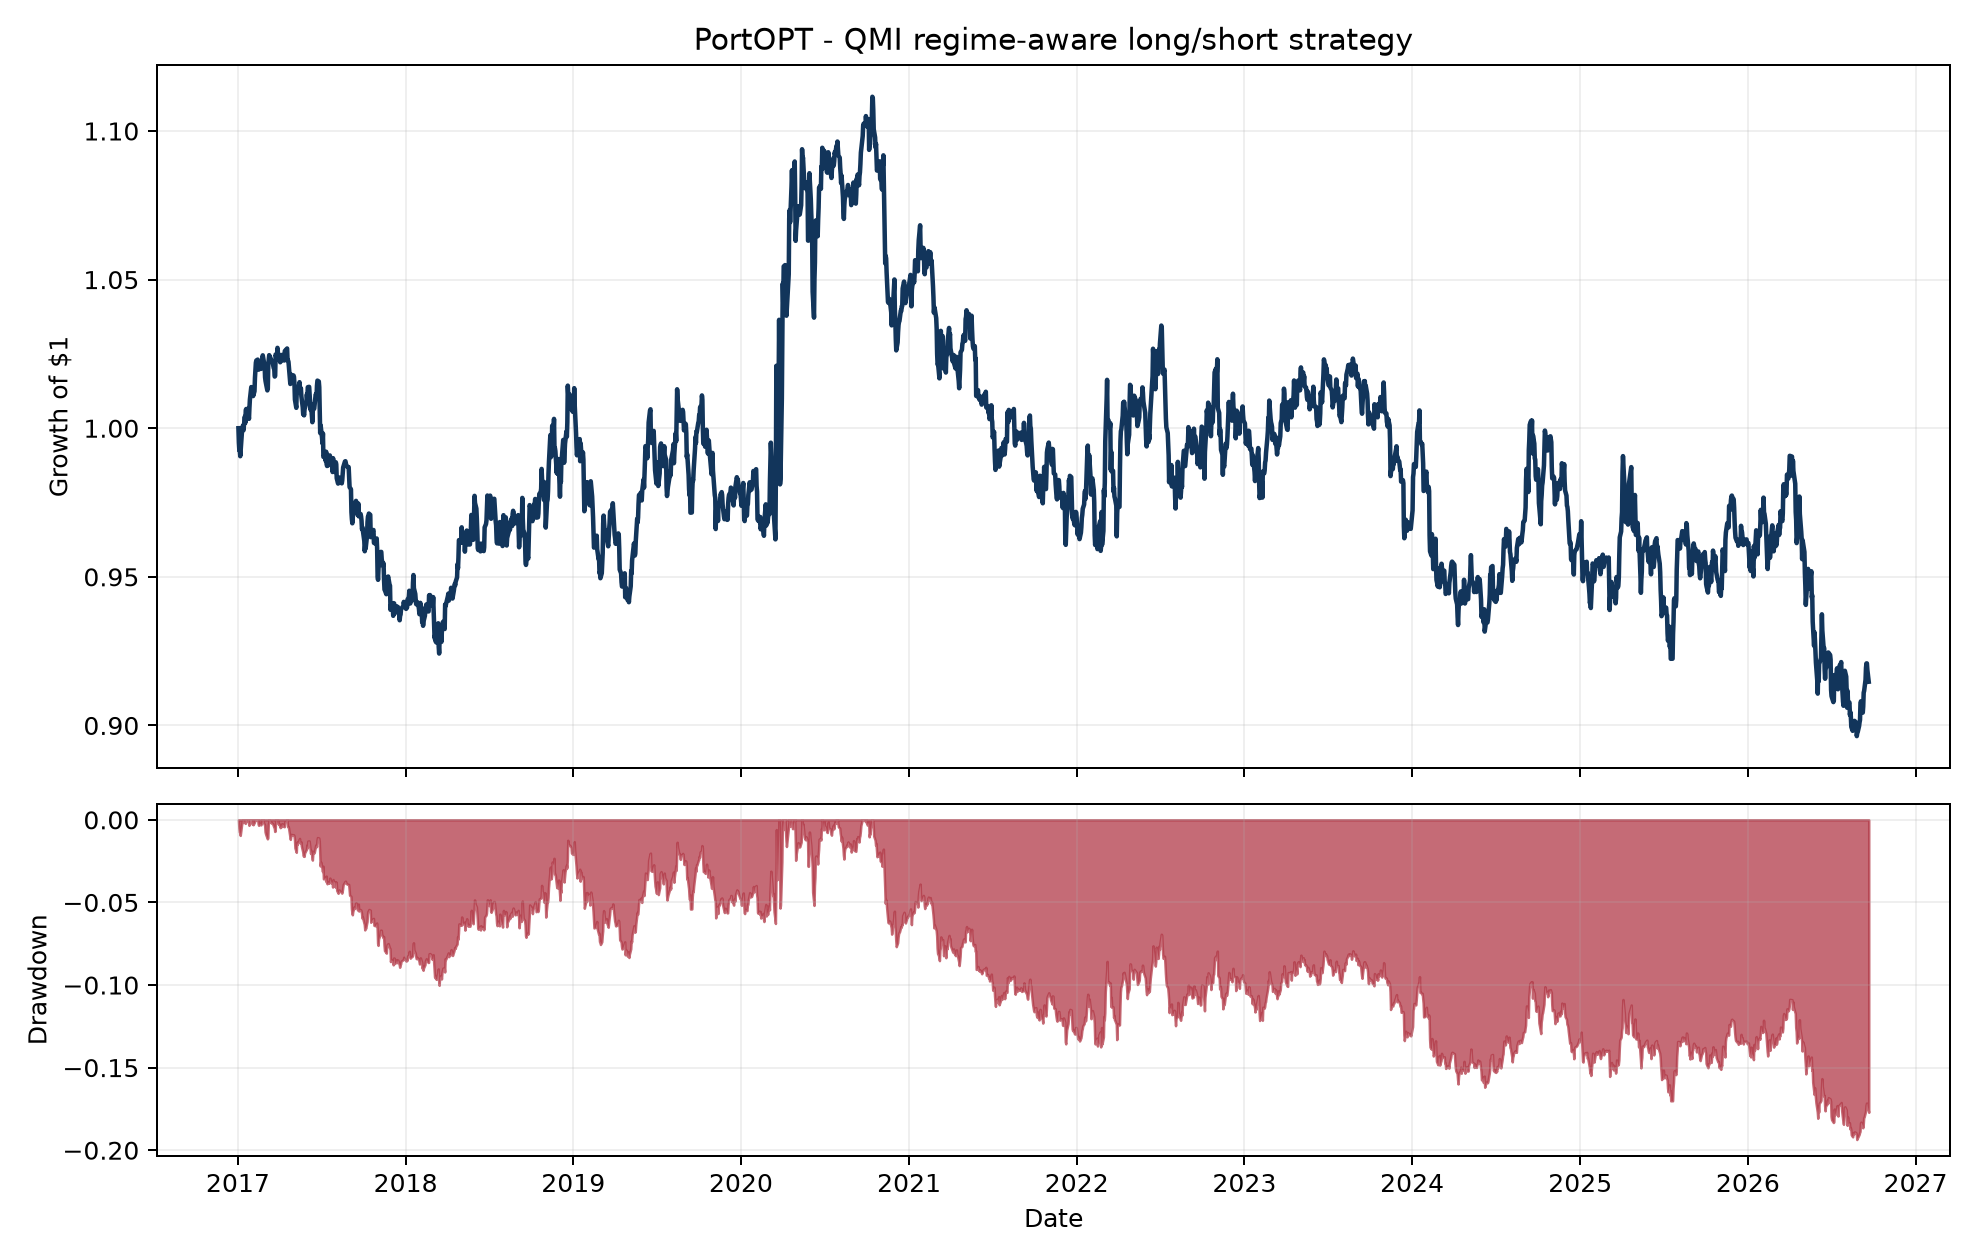
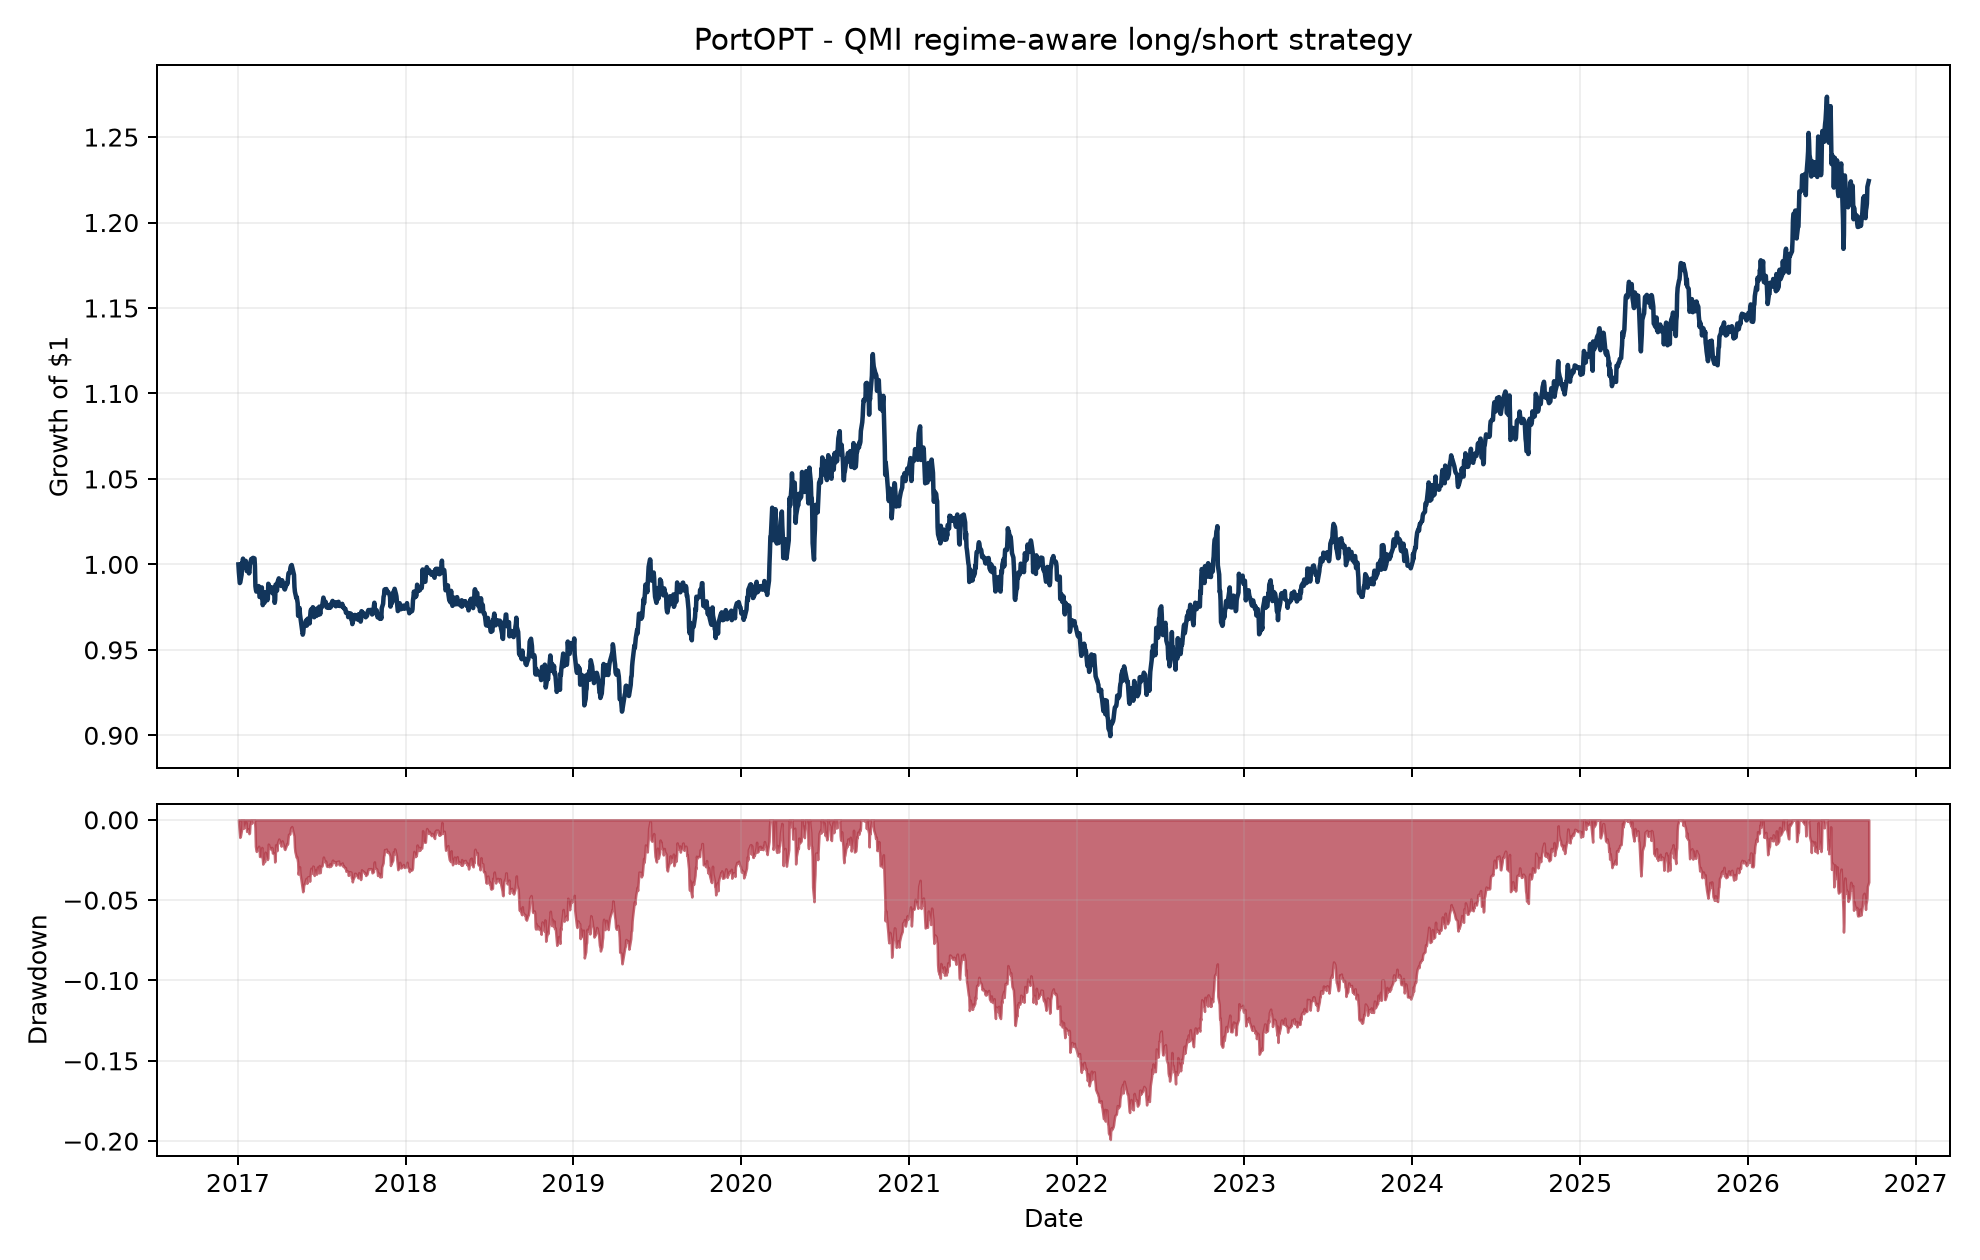
Add walk-forward regime-aware factor allocation

diff --git a/src/portopt/factors.py b/src/portopt/factors.py
@@ -69,3 +69,71 @@ def composite_score(
         total_weight += weight
     return pd.concat(weighted, axis=1).sum(axis=1, min_count=len(weighted)) / total_weight
 
+
+def factor_information_coefficients(
+    factors: dict[str, pd.DataFrame],
+    rebalance_dates: pd.DatetimeIndex,
+    prices: pd.DataFrame,
+) -> pd.DataFrame:
+    """Calculate each signal's next-month rank information coefficient.
+
+    The row indexed by date t uses factor values at t and the return from t to
+    the following rebalance. A strategy running at t can therefore use rows
+    strictly before t, including the result of the immediately prior signal.
+    """
+    month_end_prices = prices.reindex(rebalance_dates)
+    forward_returns = month_end_prices.pct_change(fill_method=None).shift(-1)
+    history = pd.DataFrame(index=rebalance_dates[:-1], columns=factors, dtype=float)
+    for signal_date in history.index:
+        realized = forward_returns.loc[signal_date]
+        for name, frame in factors.items():
+            pair = pd.concat(
+                [frame.loc[signal_date].rename("score"), realized.rename("return")], axis=1
+            ).dropna()
+            if len(pair) >= 10:
+                history.loc[signal_date, name] = pair["score"].corr(
+                    pair["return"], method="spearman"
+                )
+    return history
+
+
+def walk_forward_factor_weights(
+    ic_history: pd.DataFrame,
+    regime_history: pd.Series,
+    signal_date: pd.Timestamp,
+    current_regime: str,
+    cfg: dict,
+) -> pd.Series:
+    """Estimate non-negative factor weights using only previously realized ICs.
+
+    A stable momentum core limits estimation error. The satellite allocation
+    blends overall trailing evidence with evidence from prior occurrences of
+    the current QMI regime, then excludes factors with non-positive evidence.
+    """
+    available = ic_history.loc[ic_history.index < signal_date].tail(
+        int(cfg["factor_ic_lookback"])
+    )
+    names = ic_history.columns
+    core_factor = str(cfg["core_factor"])
+    core_weight = float(cfg["core_weight"])
+    if available.empty:
+        return pd.Series({name: float(name == core_factor) for name in names})
+
+    halflife = float(cfg["factor_ic_halflife"])
+    overall = available.ewm(halflife=halflife, min_periods=3).mean().iloc[-1]
+    past_regimes = regime_history.reindex(available.index)
+    regime_sample = available.loc[past_regimes == current_regime]
+    if len(regime_sample) >= int(cfg["minimum_regime_observations"]):
+        regime_estimate = regime_sample.ewm(halflife=halflife, min_periods=3).mean().iloc[-1]
+        blend = float(cfg["regime_ic_weight"])
+        evidence = (1.0 - blend) * overall + blend * regime_estimate
+    else:
+        evidence = overall
+
+    satellite = evidence.clip(lower=0.0).fillna(0.0)
+    if satellite.sum() == 0:
+        satellite.loc[core_factor] = 1.0
+    satellite /= satellite.sum()
+    weights = satellite * (1.0 - core_weight)
+    weights.loc[core_factor] += core_weight
+    return weights / weights.sum()

diff --git a/src/portopt/backtest.py b/src/portopt/backtest.py
@@ -4,7 +4,12 @@ from dataclasses import dataclass
 
 import pandas as pd
 
-from portopt.factors import composite_score, compute_factors
+from portopt.factors import (
+    composite_score,
+    compute_factors,
+    factor_information_coefficients,
+    walk_forward_factor_weights,
+)
 from portopt.metrics import performance_metrics
 from portopt.optimizer import optimize_weights
 from portopt.regimes import classify_regimes
@@ -17,6 +22,7 @@ class BacktestResult:
     weights: pd.DataFrame
     turnover: pd.Series
     regimes: pd.Series
+    factor_weights: pd.DataFrame
     metrics: dict[str, float]
 
 
@@ -42,8 +48,10 @@ def run_backtest(
     rebalances = rebalances[rebalances >= prices.index[int(signal_cfg["minimum_history"])] ]
     monthly_qmi = qmi.reindex(rebalances, method="ffill")
     regimes = classify_regimes(monthly_qmi)
+    ic_history = factor_information_coefficients(factors, rebalances, prices)
 
     targets: dict[pd.Timestamp, pd.Series] = {}
+    factor_weight_history: dict[pd.Timestamp, pd.Series] = {}
     previous = pd.Series(0.0, index=prices.columns)
     cov_lb = int(opt_cfg["covariance_lookback"])
     for signal_date in rebalances[:-1]:
@@ -51,12 +59,19 @@ def run_backtest(
         if execution_candidates.empty:
             break
         execution_date = execution_candidates[0]
-        score = composite_score(
-            factors,
-            signal_date,
-            regimes.loc[signal_date],
-            signal_cfg["factor_weights"],
-        )
+        if signal_cfg.get("adaptive_factor_weights", False):
+            factor_weights = walk_forward_factor_weights(
+                ic_history,
+                regimes,
+                signal_date,
+                regimes.loc[signal_date],
+                signal_cfg,
+            ).to_dict()
+            regime_for_tilt = "Adaptive"
+        else:
+            factor_weights = signal_cfg["factor_weights"]
+            regime_for_tilt = regimes.loc[signal_date]
+        score = composite_score(factors, signal_date, regime_for_tilt, factor_weights)
         history = returns.loc[:signal_date].tail(cov_lb)
         eligible = history.notna().mean()[lambda x: x >= 0.95].index.intersection(score.dropna().index)
         if len(eligible) < 10:
@@ -66,6 +81,7 @@ def run_backtest(
             score.loc[eligible], covariance, sectors, previous, opt_cfg, float(signal_cfg["tail_fraction"])
         ).reindex(prices.columns).fillna(0.0)
         targets[execution_date] = weights
+        factor_weight_history[signal_date] = pd.Series(factor_weights, dtype=float)
         previous = weights
 
     if not targets:
@@ -96,6 +112,6 @@ def run_backtest(
         weights=weight_frame.loc[start:],
         turnover=daily_turnover.loc[start:].rename("turnover"),
         regimes=regimes,
+        factor_weights=pd.DataFrame(factor_weight_history).T,
         metrics=metrics,
     )
-

diff --git a/tests/test_adaptive_factors.py b/tests/test_adaptive_factors.py
@@ -1,0 +1,40 @@
+import pandas as pd
+
+from portopt.factors import walk_forward_factor_weights
+
+CFG = {
+    "factor_ic_lookback": 60,
+    "factor_ic_halflife": 12,
+    "regime_ic_weight": 0.35,
+    "minimum_regime_observations": 2,
+    "core_factor": "momentum",
+    "core_weight": 0.60,
+}
+
+
+def test_walk_forward_weights_ignore_current_and_future_information():
+    index = pd.date_range("2020-01-31", periods=6, freq="ME")
+    history = pd.DataFrame(
+        {
+            "momentum": [0.10, 0.20, 0.10, -0.20, -0.50, -0.90],
+            "quality": [-0.10, 0.30, 0.20, 0.40, 0.80, 0.90],
+        },
+        index=index,
+    )
+    regimes = pd.Series(["Expansion"] * 6, index=index)
+    first = walk_forward_factor_weights(history, regimes, index[4], "Expansion", CFG)
+    changed = history.copy()
+    changed.loc[index[4]:, "quality"] = -100.0
+    second = walk_forward_factor_weights(changed, regimes, index[4], "Expansion", CFG)
+    pd.testing.assert_series_equal(first, second)
+
+
+def test_core_factor_keeps_minimum_allocation():
+    index = pd.date_range("2020-01-31", periods=6, freq="ME")
+    history = pd.DataFrame(
+        {"momentum": [-0.2] * 6, "quality": [0.3] * 6}, index=index
+    )
+    regimes = pd.Series(["Slowdown"] * 6, index=index)
+    weights = walk_forward_factor_weights(history, regimes, index[-1], "Slowdown", CFG)
+    assert weights["momentum"] >= CFG["core_weight"]
+    assert abs(weights.sum() - 1.0) < 1e-12

diff --git a/src/portopt/reporting.py b/src/portopt/reporting.py
@@ -16,6 +16,7 @@ def write_reports(result: BacktestResult, output_dir: str | Path) -> None:
     result.weights.to_csv(output_dir / "weights.csv", float_format="%.8f")
     result.turnover.to_csv(output_dir / "turnover.csv", float_format="%.8f")
     result.regimes.to_csv(output_dir / "regimes.csv")
+    result.factor_weights.to_csv(output_dir / "factor_weights.csv", float_format="%.8f")
     with (output_dir / "metrics.json").open("w", encoding="utf-8") as handle:
         json.dump(result.metrics, handle, indent=2, sort_keys=True)
 
@@ -33,4 +34,3 @@ def write_reports(result: BacktestResult, output_dir: str | Path) -> None:
     fig.tight_layout()
     fig.savefig(output_dir / "performance.png", dpi=180)
     plt.close(fig)
-

diff --git a/README.md b/README.md
@@ -40,8 +40,12 @@ database:
 - low risk: a blend of realized volatility and market beta;
 - value: long-horizon residual price mean reversion, explicitly a price-based value proxy.
 
-Regime-specific tilts change the factor mix. The optimizer then maximizes factor score while
-penalizing covariance risk and turnover.
+Factor allocation is walk-forward rather than fixed. Momentum receives a 60% core allocation.
+The remaining 40% is assigned from trailing rank information coefficients, blending evidence
+from all prior months with earlier occurrences of the current QMI regime. Only outcomes known by
+the rebalance date are eligible, and factors with non-positive evidence receive no satellite
+allocation. The optimizer then maximizes the resulting score while penalizing covariance risk
+and turnover.
 
 ## Portfolio constraints
 
@@ -71,7 +75,7 @@ Generated files appear in `reports/`:
 
 - `metrics.json` - headline performance and exposure statistics;
 - `equity_curve.csv` and `daily_returns.csv` - portfolio history;
-- `weights.csv` and `turnover.csv` - a full allocation audit trail;
+- `weights.csv`, `factor_weights.csv` and `turnover.csv` - a full allocation audit trail;
 - `regimes.csv` and `gmm_diagnostic.csv` - macro-state diagnostics;
 - `performance.png` - equity and drawdown chart.
 
@@ -85,13 +89,14 @@ make test
 ## Reference run
 
 The checked reference run covers 2,488 trading observations after the warm-up period. With the
-default constraints and costs, it ends at $914,068 from $1,000,000, with -0.91% CAGR, 6.95%
-annualized volatility, -0.10 Sharpe ratio and -19.35% maximum drawdown. Average gross exposure
-is 88.2% and average net exposure is 4.2%.
+default constraints and costs, it grows $1,000,000 to $1,223,022: a 22.42% total return, 2.10%
+CAGR, 6.74% annualized volatility, 0.34 Sharpe ratio and -19.90% maximum drawdown. Average gross
+exposure is 82.4% and average net exposure is -0.7%.
 
-These results are deliberately reported without in-sample parameter optimization. A negative
-reference result is informative: it establishes an honest baseline and avoids selecting factor
-weights solely because they fit this sample.
+The recent holdout-style period is materially stronger than the early history. From 2022 onward,
+the strategy produces a 27.26% total return, 5.25% CAGR, 0.78 Sharpe ratio and -6.99% maximum
+drawdown. From 2024 onward, CAGR is 7.82% with a 1.12 Sharpe ratio. These subperiods are reported
+to expose stability rather than hide the weaker 2017-2021 period.
 
 ## Data sources and use
 

diff --git a/docs/methodology.md b/docs/methodology.md
@@ -7,10 +7,13 @@ For each month-end signal date `t`:
 1. Use adjusted prices observed through `t` and macro observations available after the configured
    publication lag.
 2. Classify the QMI state and compute cross-sectional factor scores.
-3. Estimate the covariance matrix from returns through `t`.
-4. Solve for target weights subject to stock, sector, net and gross constraints.
-5. Apply the target after the next trading close; the next day's return is the first earned return.
-6. Deduct turnover costs on target changes and accrue short-borrow cost daily.
+3. Update factor efficacy using only previously completed one-month forecasts. Allocate a 60%
+   momentum core and distribute the 40% satellite using positive trailing information
+   coefficients, partly conditioned on earlier occurrences of the current QMI regime.
+4. Estimate the covariance matrix from returns through `t`.
+5. Solve for target weights subject to stock, sector, net and gross constraints.
+6. Apply the target after the next trading close; the next day's return is the first earned return.
+7. Deduct turnover costs on target changes and accrue short-borrow cost daily.
 
 This sequence deliberately sacrifices one trading day rather than assume an untradeable
 month-end close formed with that same close.
@@ -29,8 +32,9 @@ QMI = mean(
 ```
 
 At least three components must be available. The two-month release lag is configurable. A
-rule-based level/direction classifier is used for the tradable regime because it is interpretable
-and stable. A four-component Gaussian mixture model is exported only as a diagnostic. The
+rule-based level/direction classifier is used because it is interpretable and stable. It conditions
+the walk-forward factor-efficacy estimate; it does not impose fixed factor labels learned from the
+full sample. A four-component Gaussian mixture model is exported only as a diagnostic. The
 Ornstein-Uhlenbeck half-life is likewise descriptive and does not set the rebalance frequency.
 
 ## Optimization
@@ -53,7 +57,7 @@ The automated suite verifies:
 - exact mapping of QMI quadrants to the four named regimes;
 - positive OU half-life on a known mean-reverting process;
 - stock, sector, net and gross limits on optimized weights;
+- invariance of walk-forward factor weights to current and future outcomes;
 - invariance of historical factor scores when only future prices are changed.
 
 The CI workflow runs Ruff and pytest on Python 3.12 for every push and pull request.
-
